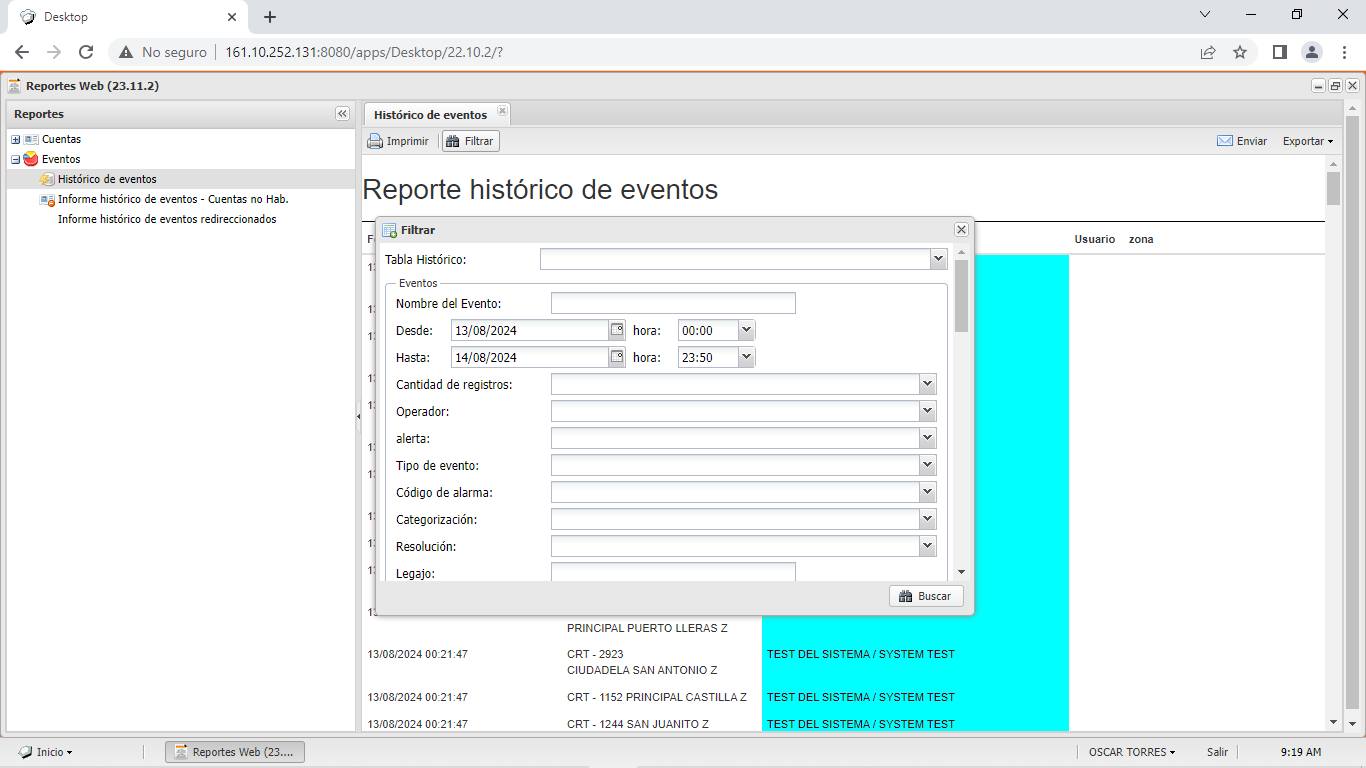
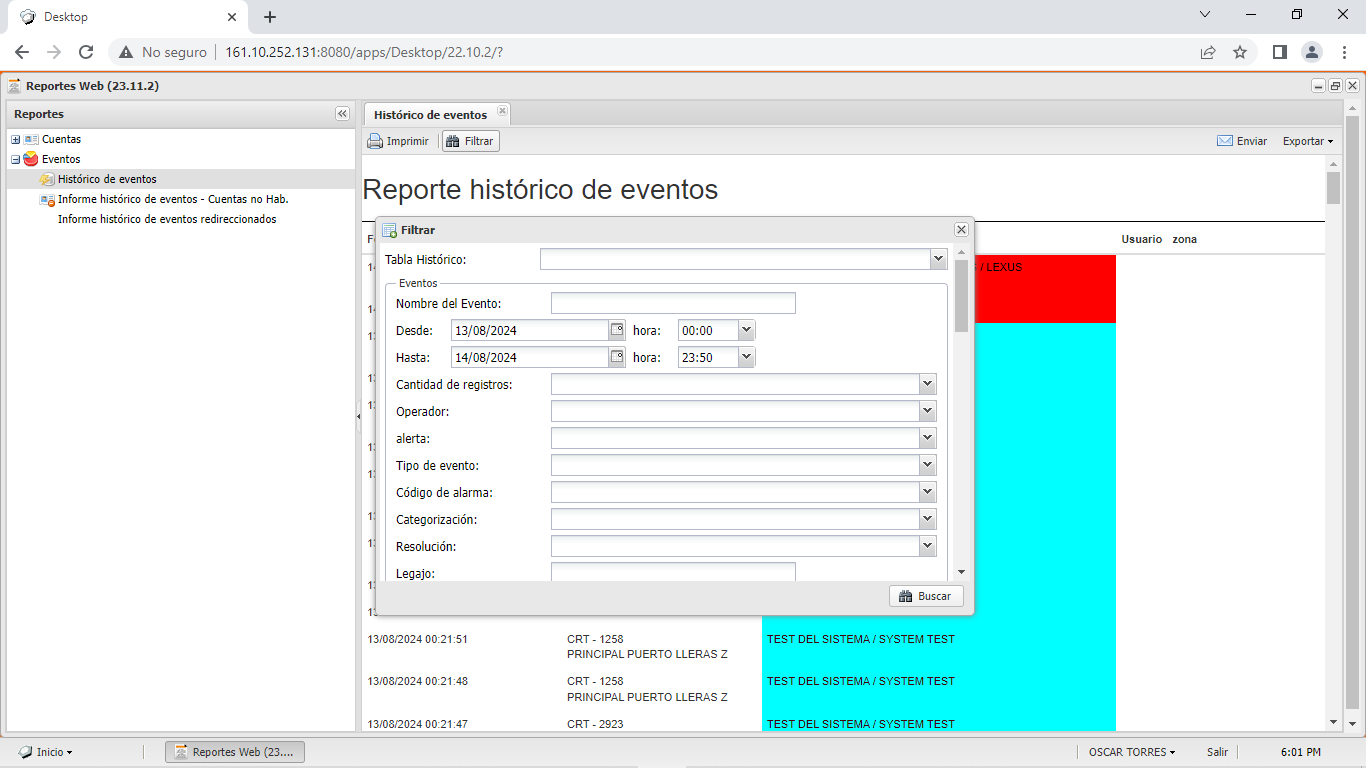
proceso filtro

diff --git a/main.py b/main.py
@@ -8,9 +8,7 @@ import telebot
 import os
 #import cv2
 import numpy as np
-from config import logging
-from config import hora_actual
-
+from config import *
 
 tupla_filtro = ( 
             'logo_reportes_web.png',
@@ -93,7 +91,7 @@ def obtener_captura_pantalla(nombre_captura, carpeta):
     except Exception as e:
         print(f" Error al capturar: {e}")
 
-#def iniciar_filtro(img):
+def iniciar_filtro(img):
     error = '_error'
     if not img == 'eventos.png':
         ruta_imagen = obtener_ruta_imagenes(img)
@@ -135,8 +133,53 @@ def obtener_captura_pantalla(nombre_captura, carpeta):
                 return False
 
 def iniciar_formulario():
+    hola = '5:53 PM'
     pyautogui.press('tab')
-    pyautogui.write()
+    pyautogui.write(mes_y_ano, interval=0.1)
+    time.sleep(1)
+    pyautogui.press('tab')
+    pyautogui.press('tab')
+    
+    # PROCESO BATERIAS
+    if  hola == '5:53 PM' or '5:54 PM':
+        if hola == '5:54 PM':
+            pyautogui.write(fecha_desde, interval=0.1)
+            pyautogui.press('tab')
+            pyautogui.write('00:00')
+            pyautogui.press('tab')
+            pyautogui.write('12:00')
+            pyautogui.press('tab')
+            pyautogui.press('tab')
+            pyautogui.press('tab')
+            pyautogui.press('tab')
+            pyautogui.press('tab')
+            pyautogui.write('FALLO DE BATERIA / BATTERY FAILURE - LOW', interval=0.1)
+        elif hola == '5:53 PM':
+            pyautogui.write(fecha_hoy, interval=0.1)
+            time.sleep(1)
+            pyautogui.press('tab')
+            pyautogui.write('12:00')
+            pyautogui.press('tab')
+            pyautogui.write(fecha_hoy, interval=0.1)
+            time.sleep(1)
+            pyautogui.press('tab')
+            pyautogui.write('07:00')
+            pyautogui.press('tab')
+            pyautogui.press('tab')
+            pyautogui.press('tab')
+            pyautogui.press('tab')
+            pyautogui.press('tab')
+            pyautogui.write('FALLO DE BATERIA / BATTERY FAILURE - LOW', interval=0.1)
+            for img in tupla_formulario:
+                iniciar_filtro(img)
+
+def escoger_codigo_alarma():
+
+    if hora_actual == '4:04 PM' or '4:05 PM':
+        pyautogui.write('FALLO DE BATERIA / BATTERY FAILURE - LOW', interval=0.1)
+    #elif hora_actual == 
+
+
 def iniciar_sesion():
     try:
         # ABRIR NAVEGADOR
@@ -184,21 +227,14 @@ def iniciar_sesion():
             
         for img in tupla_filtro:
             iniciar_filtro(img)
+        
+        iniciar_formulario()
+        
+        
+        
     except Exception as error: 
         logging.error(' No se pudo inicar sesion: ')
 
 
-def encontrar_imagen_en_pantalla(nombre_imagen):
-    ruta_imagen = obtener_ruta_imagenes(nombre_imagen)
-    coordenadas_ruta_imagen = obtener_coordenadas_imagen_pantalla(ruta_imagen)
-    if coordenadas_ruta_imagen:
-        for imagen in tupla_filtro:
-            ruta_imagen_tupla = obtener_ruta_imagenes(imagen)
-            if ruta_imagen_tupla:
-                obtener_captura_pantalla(nombre_imagen, 'img')
-                ruta_imagen_captura = obtener_ruta_imagenes(nombre_imagen)
-                mensaje_telegram(nombre_imagen, ruta_imagen_captura)
 
-
-#encontrar_imagen_en_pantalla('reportes_web.png')
 iniciar_sesion()

diff --git a/config.py b/config.py
@@ -1,11 +1,27 @@
 import logging
 import datetime
 
-
 #Hora_actual
-hora_actual = datetime.datetime.now().strftime("%I:%M %p")
-#print(f'ejecucion a las: {hora_actual}')
+hora_actual = datetime.datetime.now().strftime("%I:%M %p").lstrip('0')
+print(hora_actual)
+# Diccionario para los nombres de los meses en espanol
+meses_en_espanol = {
+    1: "enero", 2: "febrero", 3: "marzo", 4: "abril", 
+    5: "mayo", 6: "junio", 7: "julio", 8: "agosto", 
+    9: "septiembre", 10: "octubre", 11: "noviembre", 12: "diciembre"
+}
 
+# Obtener la fecha y hora actuales
+fecha_actual = datetime.datetime.now()
+
+# Formatear el mes y ano manualmente
+mes_y_ano = f"{meses_en_espanol[fecha_actual.month]} {fecha_actual.year}"
+
+#Fechas formulario filtrar
+fecha_hoy = datetime.datetime.now().strftime("%d/%m/%Y")
+print(fecha_hoy)
+fecha_desde = fecha_hoy
+fecha_hasta = fecha_hoy
 
 # LOGS
 logging.basicConfig(
